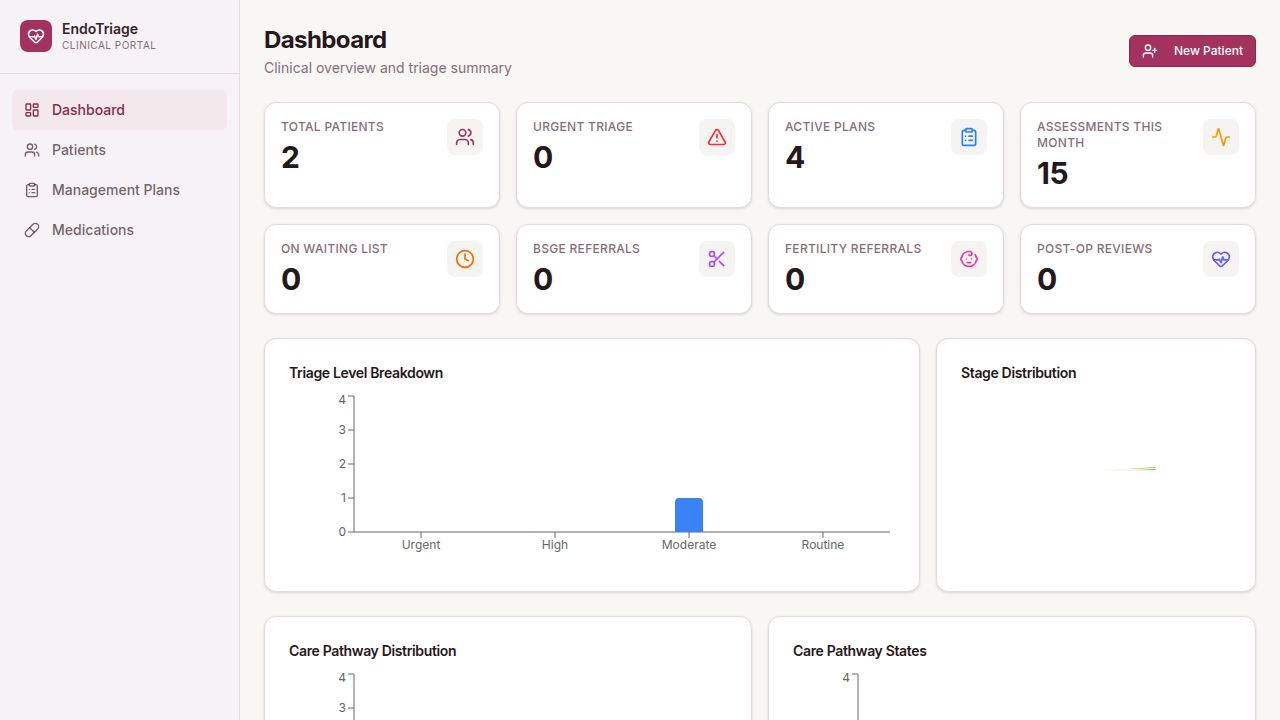
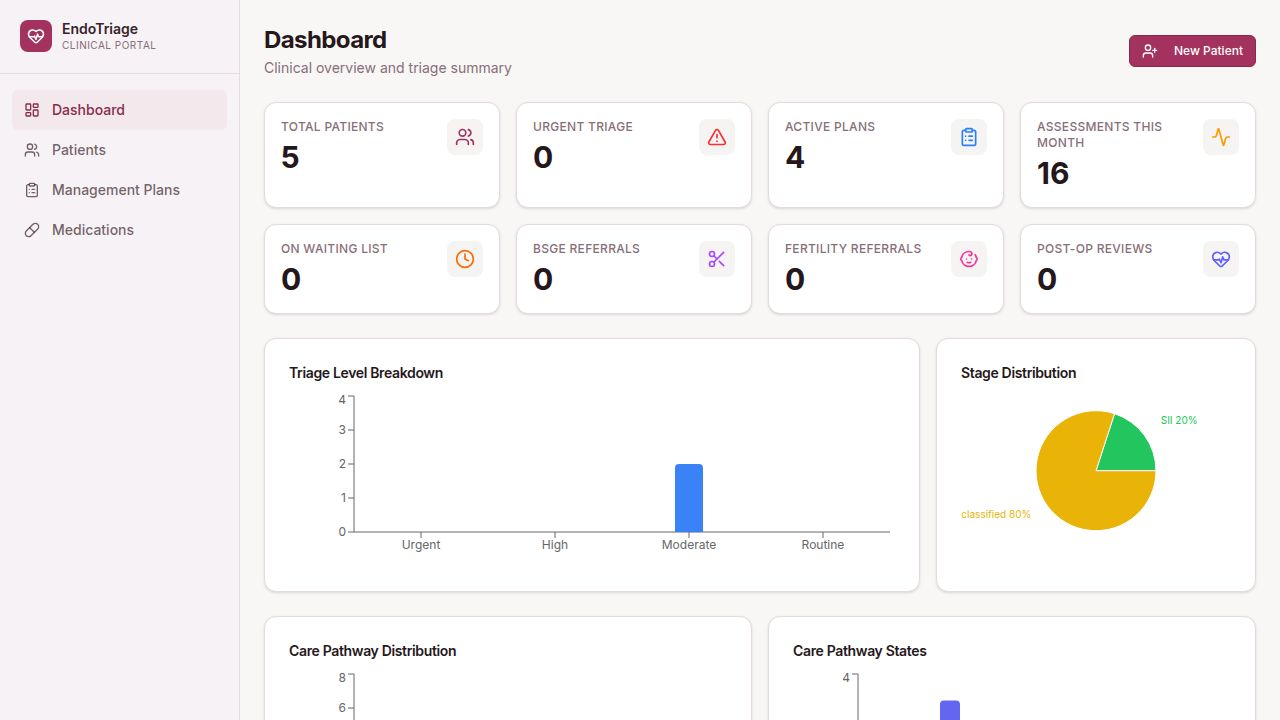
Task #8: AI-driven clinical workflow & BNF medication dosing
- Added PrescriptionItem interface (dose/route/frequency/duration/courseNotes/bnfReference) to triage engine
- Added BNF_DOSING lookup map for all 10 medications (Naproxen, COCP, Norethisterone Acetate, Mirena IUS, Dienogest, Elagolix, Leuprolide Acetate, Myfembree, Gabapentin, Tranexamic Acid) with full BNF-compliant dosing data
- Extended ManagementPlanRecommendation interface with: prescriptions[], surgicalRoute (pooled|specialist|null), surgicalRouteCriteria[]
- computeManagementPlan now calls computeSurgicalTriage internally to embed surgical route determination in plan output
- Updated OpenAPI spec: added PrescriptionItem schema, prescriptions + surgicalRoute + surgicalRouteCriteria fields to ManagementPlanRecommendation
- Ran codegen; full workspace typecheck clean
- Server recommend route now attaches structured investigationFindings to response for frontend display
- AssessmentWizard: after submit navigates to /patients/:id/investigations (not patient profile)
- Investigations: after save navigates to /patients/:id/plan (auto-clinical-workflow)
- CreatePlan: replaced simple medication name badges with BNF prescription cards showing dose/route/frequency/duration/course notes/BNF reference; deselectable; AI-recommended cards highlighted in rose

diff --git a/lib/triage-engine/src/index.ts b/lib/triage-engine/src/index.ts
@@ -95,6 +95,16 @@ export interface SurgicalTriageResult {
   listStatus: string;
 }
 
+export interface PrescriptionItem {
+  name: string;
+  dose: string;
+  route: string;
+  frequency: string;
+  duration: string;
+  courseNotes: string;
+  bnfReference: string;
+}
+
 export interface ManagementPlanRecommendation {
   recommendedPathway: Pathway;
   pathwayRationale: string;
@@ -110,7 +120,10 @@ export interface ManagementPlanRecommendation {
   recommendedApproach: RecommendedApproach;
   recommendedMedications: string[];
   medicationRationale: string;
+  prescriptions: PrescriptionItem[];
   recommendedSurgicalOptions: string[];
+  surgicalRoute: "pooled" | "specialist" | null;
+  surgicalRouteCriteria: string[];
   recommendedLifestyle: string[];
   recommendedFollowUpWeeks: number;
   recommendedGoals: string;
@@ -325,6 +338,103 @@ export function computeTriageAndStage(data: TriageInput): AssessmentResult {
     psychSupport,
   };
 }
+
+/**
+ * BNF-compliant dosing reference for medications used in endometriosis management.
+ * Sources: BNF online (bnf.nice.org.uk), NICE NG73 §1.4.
+ */
+const BNF_DOSING: Record<string, PrescriptionItem> = {
+  "Naproxen": {
+    name: "Naproxen",
+    dose: "250–500 mg",
+    route: "Oral",
+    frequency: "Twice daily with food",
+    duration: "Short-term; review at 3 months",
+    courseNotes: "Take with or after food to reduce GI side-effects. Avoid in renal impairment. Use lowest effective dose for shortest duration (NICE NG73 §1.4.1).",
+    bnfReference: "BNF: Naproxen — musculoskeletal and joint diseases / pain",
+  },
+  "Combined Oral Contraceptive Pill": {
+    name: "Combined Oral Contraceptive Pill",
+    dose: "Standard preparation (e.g. Microgynon 30: ethinylestradiol 30 mcg / levonorgestrel 150 mcg)",
+    route: "Oral",
+    frequency: "Once daily (21-day cycle or continuous cycling)",
+    duration: "3–6 months; review response",
+    courseNotes: "Continuous (tricycling) preferred over cyclic dosing to reduce breakthrough bleeding and pain. Contraindicated in migraine with aura, history of VTE, smokers >35 years (NICE NG73 §1.4.2).",
+    bnfReference: "BNF: Combined hormonal contraceptives — contraception",
+  },
+  "Norethisterone Acetate": {
+    name: "Norethisterone Acetate",
+    dose: "5 mg",
+    route: "Oral",
+    frequency: "Three times daily (continuously)",
+    duration: "3–6 months; review response",
+    courseNotes: "Continuous dosing for endometriosis (not cyclic). Monitor for androgenic side-effects (acne, weight gain). Fertility-sparing option where COC is contraindicated (NICE NG73 §1.4.3).",
+    bnfReference: "BNF: Norethisterone — sex hormones / progestogens",
+  },
+  "Mirena IUS": {
+    name: "Mirena IUS",
+    dose: "52 mg levonorgestrel IUS",
+    route: "Intrauterine",
+    frequency: "Single insertion; releases ~20 mcg/day",
+    duration: "Up to 5 years",
+    courseNotes: "First-line hormonal option when oral progestogens not tolerated. Reduces dysmenorrhoea and menstrual blood loss. Fertility returns rapidly after removal (NICE NG73 §1.4.3).",
+    bnfReference: "BNF: Levonorgestrel IUS — intrauterine progestogen-only contraceptives",
+  },
+  "Dienogest": {
+    name: "Dienogest",
+    dose: "2 mg",
+    route: "Oral",
+    frequency: "Once daily continuously",
+    duration: "6–12 months; specialist review before extending",
+    courseNotes: "Progestogen with endometriosis-specific evidence base. May cause irregular spotting in first 3 months. Do not use if pregnancy suspected. Suitable for long-term use (NICE NG73 §1.4.3).",
+    bnfReference: "BNF: Dienogest — sex hormones / progestogens (endometriosis)",
+  },
+  "Elagolix": {
+    name: "Elagolix",
+    dose: "150 mg (low dose) or 200 mg (high dose)",
+    route: "Oral",
+    frequency: "Once daily (150 mg) or twice daily (200 mg)",
+    duration: "Up to 24 months (150 mg) or 6 months (200 mg) without add-back",
+    courseNotes: "GnRH antagonist; add-back oestrogen recommended with high-dose regimen to limit bone loss. Monitor bone density if >6 months. Not for use in pregnancy (NICE NG73 §1.4.4).",
+    bnfReference: "BNF: Elagolix — gonadotrophin-releasing hormone antagonists",
+  },
+  "Leuprolide Acetate": {
+    name: "Leuprolide Acetate",
+    dose: "3.75 mg (monthly) or 11.25 mg (3-monthly depot)",
+    route: "Subcutaneous or intramuscular injection",
+    frequency: "Monthly or 3-monthly depot",
+    duration: "Maximum 6 months without add-back HRT; specialist oversight required",
+    courseNotes: "GnRH agonist; mandatory add-back HRT (low-dose oestrogen + progestogen) to protect bone density and reduce menopausal symptoms. Baseline DEXA scan recommended. Specialist initiation only (NICE NG73 §1.4.4).",
+    bnfReference: "BNF: Leuprorelin acetate — gonadotrophin-releasing hormone agonists",
+  },
+  "Relugolix/Estradiol/Norethindrone (Myfembree)": {
+    name: "Relugolix/Estradiol/Norethindrone (Myfembree)",
+    dose: "Relugolix 40 mg / estradiol 1 mg / norethindrone acetate 0.5 mg",
+    route: "Oral",
+    frequency: "Once daily",
+    duration: "Up to 24 months",
+    courseNotes: "Combined GnRH antagonist with integrated add-back therapy. Bone loss risk attenuated by add-back component. Contraindicated in osteoporosis. Monitor bone density annually (NICE NG73 §1.4.4).",
+    bnfReference: "BNF: Relugolix combinations — gonadotrophin-releasing hormone antagonists",
+  },
+  "Gabapentin": {
+    name: "Gabapentin",
+    dose: "300 mg (titrate to 300–1200 mg three times daily)",
+    route: "Oral",
+    frequency: "Three times daily; start low and titrate",
+    duration: "Review at 8 weeks; continue if beneficial for neuropathic/chronic pain",
+    courseNotes: "Adjunct for neuropathic/central sensitisation component of chronic pain. Requires specialist pain clinic supervision. Controlled drug (Schedule 3 in UK). Monitor for sedation, dizziness (NICE NG73 §1.4.7).",
+    bnfReference: "BNF: Gabapentin — neuropathic pain / antiepileptics",
+  },
+  "Tranexamic Acid": {
+    name: "Tranexamic Acid",
+    dose: "1 g",
+    route: "Oral",
+    frequency: "Three times daily during menstruation (up to 4 days)",
+    duration: "Use during menstruation only; review monthly",
+    courseNotes: "Antifibrinolytic for heavy menstrual bleeding associated with endometriosis. Not a hormonal treatment. Do not use concurrently with COC in high VTE-risk patients (BNF guidance).",
+    bnfReference: "BNF: Tranexamic acid — antifibrinolytics / menorrhagia",
+  },
+};
 
 /**
  * Compute a recommended management plan based on BOTH clinical assessment AND investigation results.
@@ -620,6 +730,25 @@ export function computeManagementPlan(
       "Specialist review to determine suitability for GnRH agonist therapy or surgical intervention; optimise quality of life; plan definitive management with MDT input as required.";
   }
 
+  // ── BNF prescriptions ─────────────────────────────────────────────────────
+  const prescriptions: PrescriptionItem[] = recommendedMedications
+    .map((name) => BNF_DOSING[name])
+    .filter((p): p is PrescriptionItem => !!p);
+
+  // ── Surgical route determination ───────────────────────────────────────────
+  let surgicalRoute: "pooled" | "specialist" | null = null;
+  let surgicalRouteCriteria: string[] = [];
+  if (isSurgicalPathway) {
+    const surgTriage = computeSurgicalTriage(assessment, investigations);
+    surgicalRoute = surgTriage.recommendedList;
+    surgicalRouteCriteria = [
+      ...surgTriage.pooledCriteria,
+      ...surgTriage.specialistCriteria,
+    ]
+      .filter((c) => c.met)
+      .map((c) => c.label);
+  }
+
   return {
     recommendedPathway,
     pathwayRationale,
@@ -634,7 +763,10 @@ export function computeManagementPlan(
     recommendedApproach,
     recommendedMedications,
     medicationRationale,
+    prescriptions,
     recommendedSurgicalOptions,
+    surgicalRoute,
+    surgicalRouteCriteria,
     recommendedLifestyle,
     recommendedFollowUpWeeks,
     recommendedGoals,

diff --git a/artifacts/endo-app/src/pages/CreatePlan.tsx b/artifacts/endo-app/src/pages/CreatePlan.tsx
@@ -502,32 +502,70 @@ export default function CreatePlan() {
           </CardHeader>
           <CardContent className="space-y-4">
             {form.selectedMeds.length > 0 && (
-              <div className="flex flex-wrap gap-1.5">
-                {form.selectedMeds.map((m) => (
-                  <Badge
-                    key={m}
-                    variant="secondary"
-                    className={`flex items-center gap-1 pr-1 ${aiMeds.includes(m) ? "border border-rose-300 bg-rose-50 text-rose-800" : ""}`}
-                  >
-                    {aiMeds.includes(m) && <span className="text-xs text-rose-500 font-bold">✦</span>}
-                    {m}
-                    <button
-                      type="button"
-                      onClick={() => {
-                        setForm((f) => ({ ...f, selectedMeds: f.selectedMeds.filter((x) => x !== m) }));
-                        markOverride("selectedMeds");
-                      }}
+              <div className="space-y-2">
+                {form.selectedMeds.map((medName) => {
+                  const rx = (recommendation?.prescriptions ?? []).find((p) => p.name === medName);
+                  const isAi = aiMeds.includes(medName);
+                  return rx ? (
+                    <div
+                      key={medName}
+                      className={`rounded-lg border px-4 py-3 text-sm space-y-2 ${isAi ? "border-rose-300 bg-rose-50/60" : "border-border bg-muted/30"}`}
                     >
-                      <X className="w-3 h-3" />
-                    </button>
-                  </Badge>
-                ))}
+                      <div className="flex items-start justify-between gap-2">
+                        <div className="flex items-center gap-2 flex-wrap">
+                          {isAi && <span className="text-rose-500 font-bold text-xs">✦</span>}
+                          <span className="font-semibold text-sm">{rx.name}</span>
+                          {isAi && (
+                            <span className="text-xs bg-rose-100 text-rose-700 px-1.5 py-0.5 rounded font-medium">NICE Step {step}</span>
+                          )}
+                        </div>
+                        <button
+                          type="button"
+                          className="text-muted-foreground hover:text-destructive mt-0.5 flex-shrink-0"
+                          onClick={() => {
+                            setForm((f) => ({ ...f, selectedMeds: f.selectedMeds.filter((x) => x !== medName) }));
+                            markOverride("selectedMeds");
+                          }}
+                        >
+                          <X className="w-4 h-4" />
+                        </button>
+                      </div>
+                      <div className="grid grid-cols-2 gap-x-4 gap-y-1 text-xs text-muted-foreground">
+                        <div><span className="font-medium text-foreground">Dose:</span> {rx.dose}</div>
+                        <div><span className="font-medium text-foreground">Route:</span> {rx.route}</div>
+                        <div><span className="font-medium text-foreground">Frequency:</span> {rx.frequency}</div>
+                        <div><span className="font-medium text-foreground">Duration:</span> {rx.duration}</div>
+                      </div>
+                      {rx.courseNotes && (
+                        <p className="text-xs text-muted-foreground leading-relaxed border-t border-border/50 pt-2">{rx.courseNotes}</p>
+                      )}
+                      <p className="text-xs text-blue-600 font-medium">{rx.bnfReference}</p>
+                    </div>
+                  ) : (
+                    <div
+                      key={medName}
+                      className={`inline-flex items-center gap-1 rounded-full px-3 py-1 text-sm border mr-1.5 ${isAi ? "border-rose-300 bg-rose-50 text-rose-800" : "bg-muted text-foreground border-border"}`}
+                    >
+                      {isAi && <span className="text-rose-500 font-bold">✦</span>}
+                      {medName}
+                      <button
+                        type="button"
+                        onClick={() => {
+                          setForm((f) => ({ ...f, selectedMeds: f.selectedMeds.filter((x) => x !== medName) }));
+                          markOverride("selectedMeds");
+                        }}
+                      >
+                        <X className="w-3 h-3 ml-0.5" />
+                      </button>
+                    </div>
+                  );
+                })}
               </div>
             )}
 
             {aiMeds.length > 0 && (
               <p className="text-xs text-rose-600 flex items-center gap-1">
-                <span className="font-bold">✦</span> Highlighted medications are NICE NG73 Step {step} recommendations
+                <span className="font-bold">✦</span> Highlighted medications are NICE NG73 Step {step} recommendations with BNF dosing
               </p>
             )}
 

diff --git a/artifacts/api-server/src/routes/management-plans.ts b/artifacts/api-server/src/routes/management-plans.ts
@@ -68,9 +68,42 @@ router.get("/management-plans/recommend", async (req, res) => {
       .from(investigationsTable)
       .where(eq(investigationsTable.patientId, patientId));
 
-    const recommendation = computeManagementPlan(latestAssessment, parseInvestigationResult(investigation));
+    const invResult = parseInvestigationResult(investigation);
+    const recommendation = computeManagementPlan(latestAssessment, invResult);
 
-    return res.json(recommendation);
+    // Build structured investigationFindings for the frontend recommendation card
+    const investigationFindings = investigation
+      ? {
+          tvus: {
+            completed: investigation.tvusCompleted,
+            endometrioma: investigation.tvusEndometrioma,
+            endometriomaSize: investigation.tvusEndometriomaSize,
+            deepEndometriosis: investigation.tvusDeepEndometriosis,
+            adenomyosis: investigation.tvusAdenomyosis,
+            normal: investigation.tvusNormal,
+          },
+          mri: {
+            completed: investigation.mriCompleted,
+            deepEndometriosis: investigation.mriDeepEndometriosis,
+            endometrioma: investigation.mriEndometrioma,
+            uretericInvolvement: investigation.mriUretericInvolvement,
+            bowelInvolvement: investigation.mriBowelInvolvement,
+            bladderInvolvement: investigation.mriBladderInvolvement,
+            normal: investigation.mriNormal,
+          },
+          laparoscopy: {
+            completed: investigation.laparoscopyCompleted,
+            rafsStage: investigation.laparoscopyRafsStage,
+            enzianScore: investigation.laparoscopyEnzianScore,
+          },
+          ca125: {
+            completed: investigation.ca125Completed,
+            value: investigation.ca125Value,
+          },
+        }
+      : null;
+
+    return res.json({ ...recommendation, investigationFindings });
   } catch (err) {
     req.log.error(err);
     return res.status(500).json({ error: "Failed to get recommendation" });

diff --git a/artifacts/endo-app/src/pages/Investigations.tsx b/artifacts/endo-app/src/pages/Investigations.tsx
@@ -1,5 +1,5 @@
 import { useState } from "react";
-import { Link, useParams } from "wouter";
+import { Link, useParams, useLocation } from "wouter";
 import {
   useGetPatient,
   useGetPatientInvestigations,
@@ -127,6 +127,7 @@ function FindingCheckbox({ id, label, checked, onChange, highlight }: FindingChe
 export default function Investigations() {
   const { id } = useParams<{ id: string }>();
   const patientId = parseInt(id);
+  const [, navigate] = useLocation();
   const { toast } = useToast();
   const queryClient = useQueryClient();
 
@@ -208,9 +209,10 @@ export default function Investigations() {
       { id: patientId, data: payload },
       {
         onSuccess: () => {
-          toast({ title: "Investigations saved", description: "All investigation data updated successfully." });
+          toast({ title: "Investigations saved", description: "Navigating to clinical plan..." });
           queryClient.invalidateQueries({ queryKey: getGetPatientInvestigationsQueryKey(patientId) });
           setForm({});
+          navigate(`/patients/${patientId}/plan`);
         },
         onError: () => {
           toast({ title: "Error", description: "Failed to save investigations. Please try again.", variant: "destructive" });

diff --git a/artifacts/endo-app/src/pages/AssessmentWizard.tsx b/artifacts/endo-app/src/pages/AssessmentWizard.tsx
@@ -161,7 +161,7 @@ export default function AssessmentWizard() {
             description: `Triage: ${preview.triageLevel}, Score: ${preview.triageScore}`,
             // Note: pathway is now decided after investigations in the management plan
           });
-          navigate(`/patients/${patientId}`);
+          navigate(`/patients/${patientId}/investigations`);
         },
         onError: () => {
           toast({ title: "Error", description: "Failed to save assessment.", variant: "destructive" });